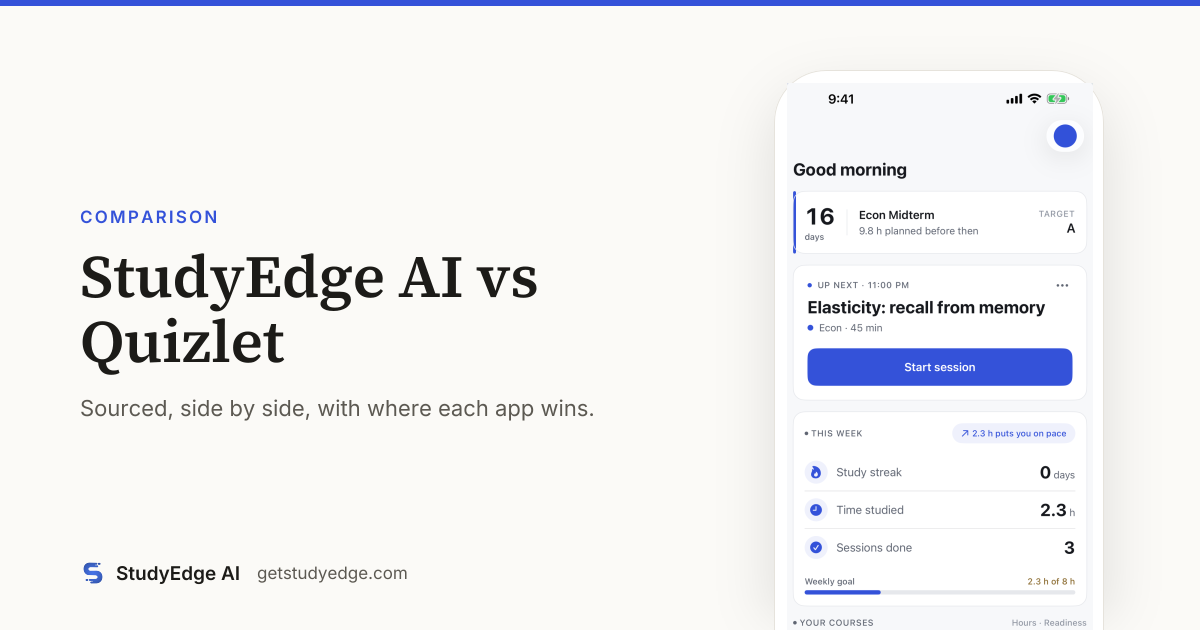
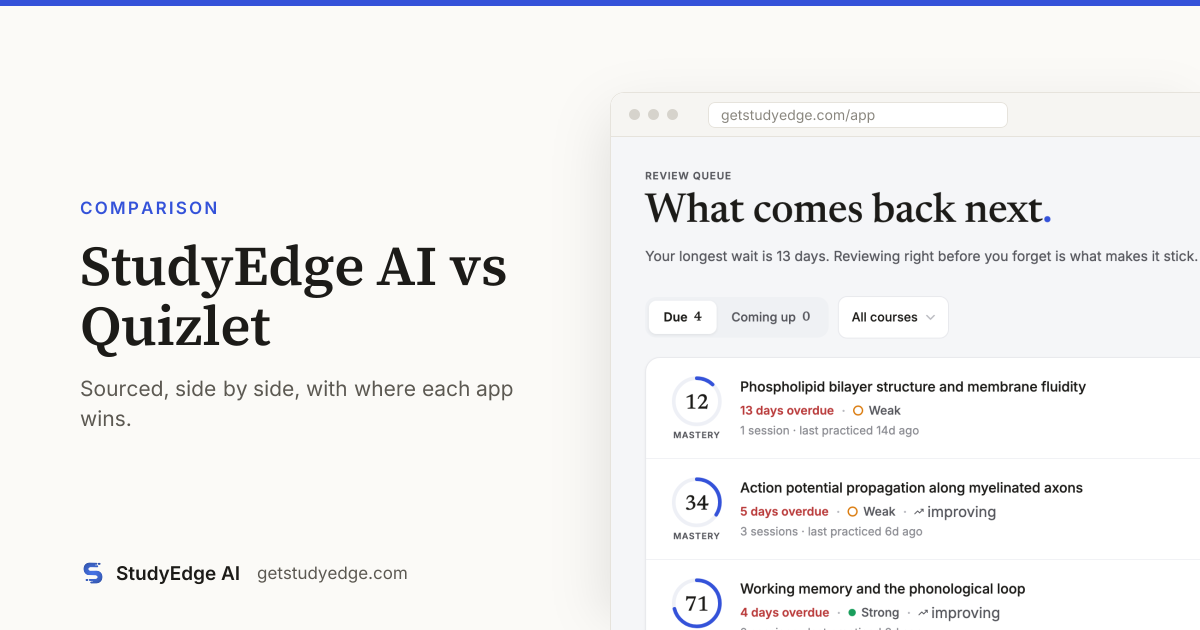
covers: browser-frame product shots (approved), phone kept as alternate
Product-shot covers now show the web app in a light browser window, since
the iOS app is still coming soon. Screens are captured from the component
harness (real React components, fixture data, network stubbed) by
scripts/cover-assets/capture-web.mjs: Review Queue and Grade Hub. The phone
layout stays in the generator behind PRODUCT_DEVICE ('browser' by default);
phone versions of the two samples are in docs/cover-samples/phone-alternate/.

Harness: GradeHubView now imports src/lib/supabase directly, which threw
without env vars; added an inert stub-supabase.js so the harness renders
again (no request ever leaves the page).

diff --git a/harness/stub-supabase.js b/harness/stub-supabase.js
@@ -1,0 +1,24 @@
+// Inert Supabase client for the harness. Every query resolves to empty data and no
+// request ever leaves the page, so the real components render from fixtures only.
+const empty = { data: null, error: null }
+const chain = new Proxy(function () {}, {
+  get(_t, prop) {
+    if (prop === 'then') return (resolve) => resolve(empty)
+    return chain
+  },
+  apply() { return chain },
+})
+export const supabase = {
+  auth: {
+    getSession: async () => ({ data: { session: null }, error: null }),
+    getUser: async () => ({ data: { user: null }, error: null }),
+    onAuthStateChange: () => ({ data: { subscription: { unsubscribe() {} } } }),
+  },
+  from: () => chain,
+  rpc: () => chain,
+  storage: { from: () => chain },
+  channel: () => chain,
+  removeChannel() {},
+}
+export default supabase
+export async function getAccessToken() { return null }

diff --git a/harness/vite.harness.config.js b/harness/vite.harness.config.js
@@ -11,6 +11,7 @@ const stubs = {
   'lib/subscription': `${here}/stub-subscription.js`,
   'lib/analytics':    `${here}/stub-analytics.js`,
   'lib/db':           `${here}/stub-db.js`,
+  'lib/supabase':     `${here}/stub-supabase.js`,
 }
 
 export default defineConfig({
